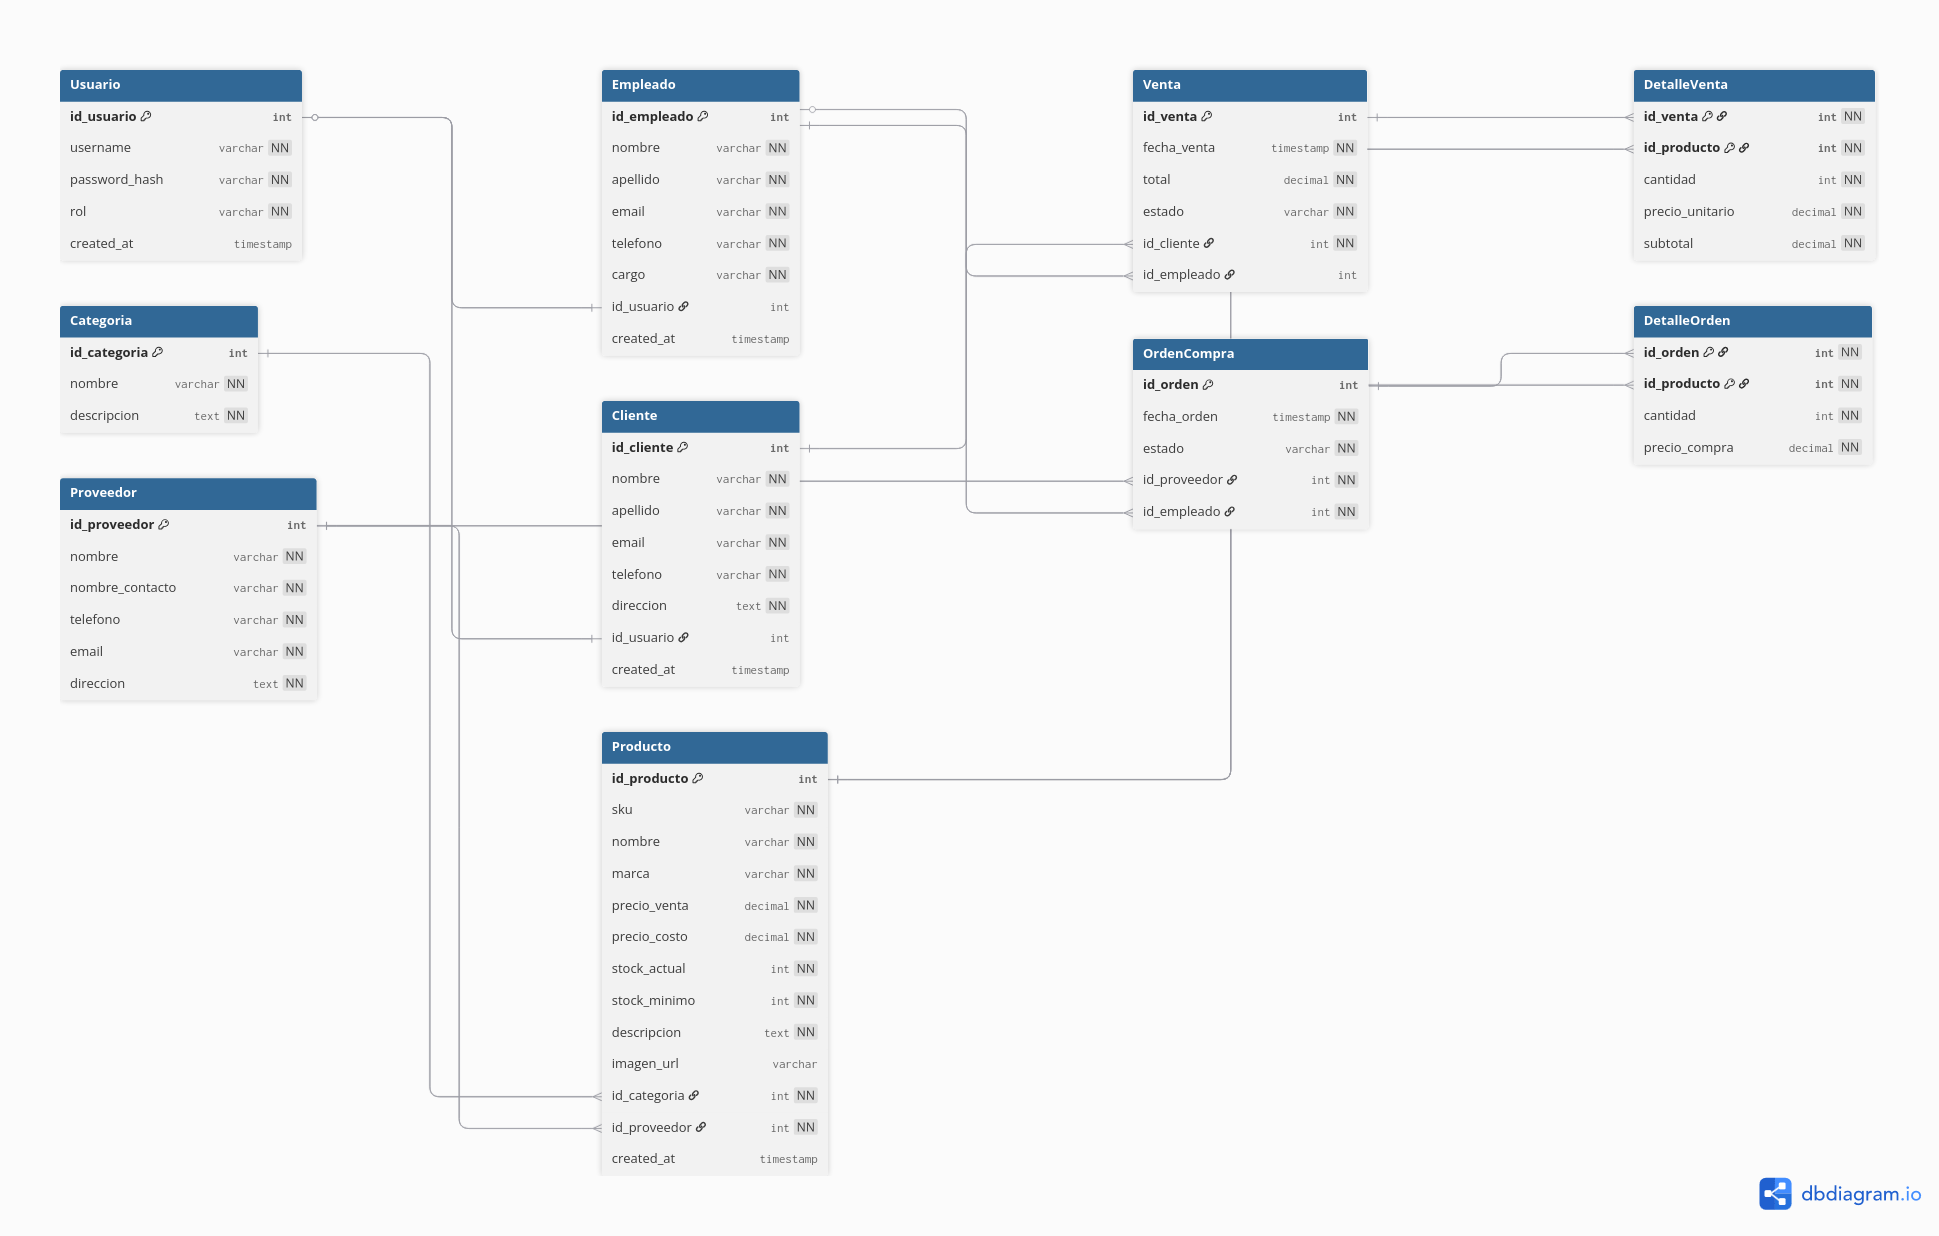
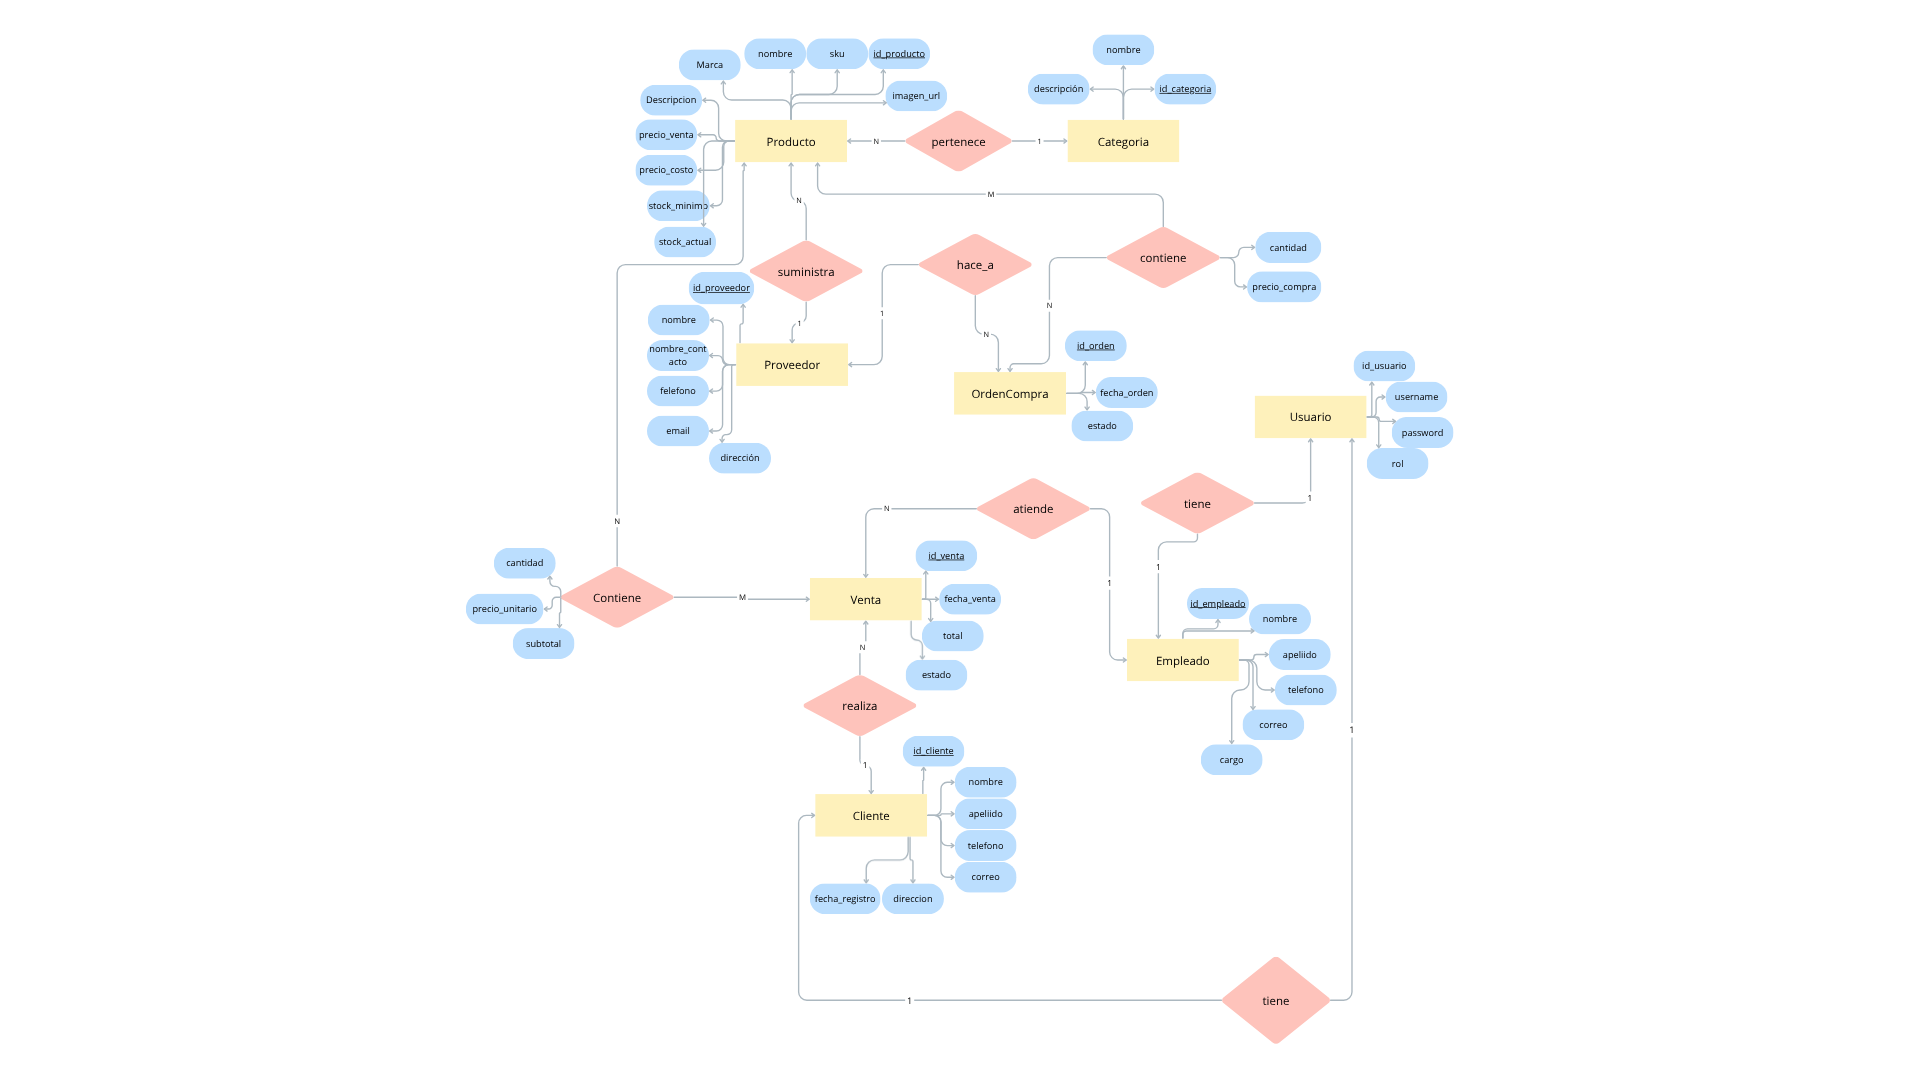
docs: database design

diff --git a/docs/Diseño.md b/docs/Diseño.md
@@ -25,7 +25,7 @@ El diagrama fue elaborado en notación Chen. Las entidades se representan con re
 
 ### 1.2 Diagrama
 
-![Diagrama Entidad-Relación](docs/diagrama_er.png)
+![Diagrama Entidad-Relación](diagrama_er.png)
 
 ---
 
@@ -69,7 +69,7 @@ PK compuesta: (id_orden, id_producto)
 
 ### 2.2 Diagrama del Modelo Relacional
 
-![Modelo Relacional](docs/modelo_relacional.png)
+![Modelo Relacional](modelo_relacional.png)
 
 ---
 
